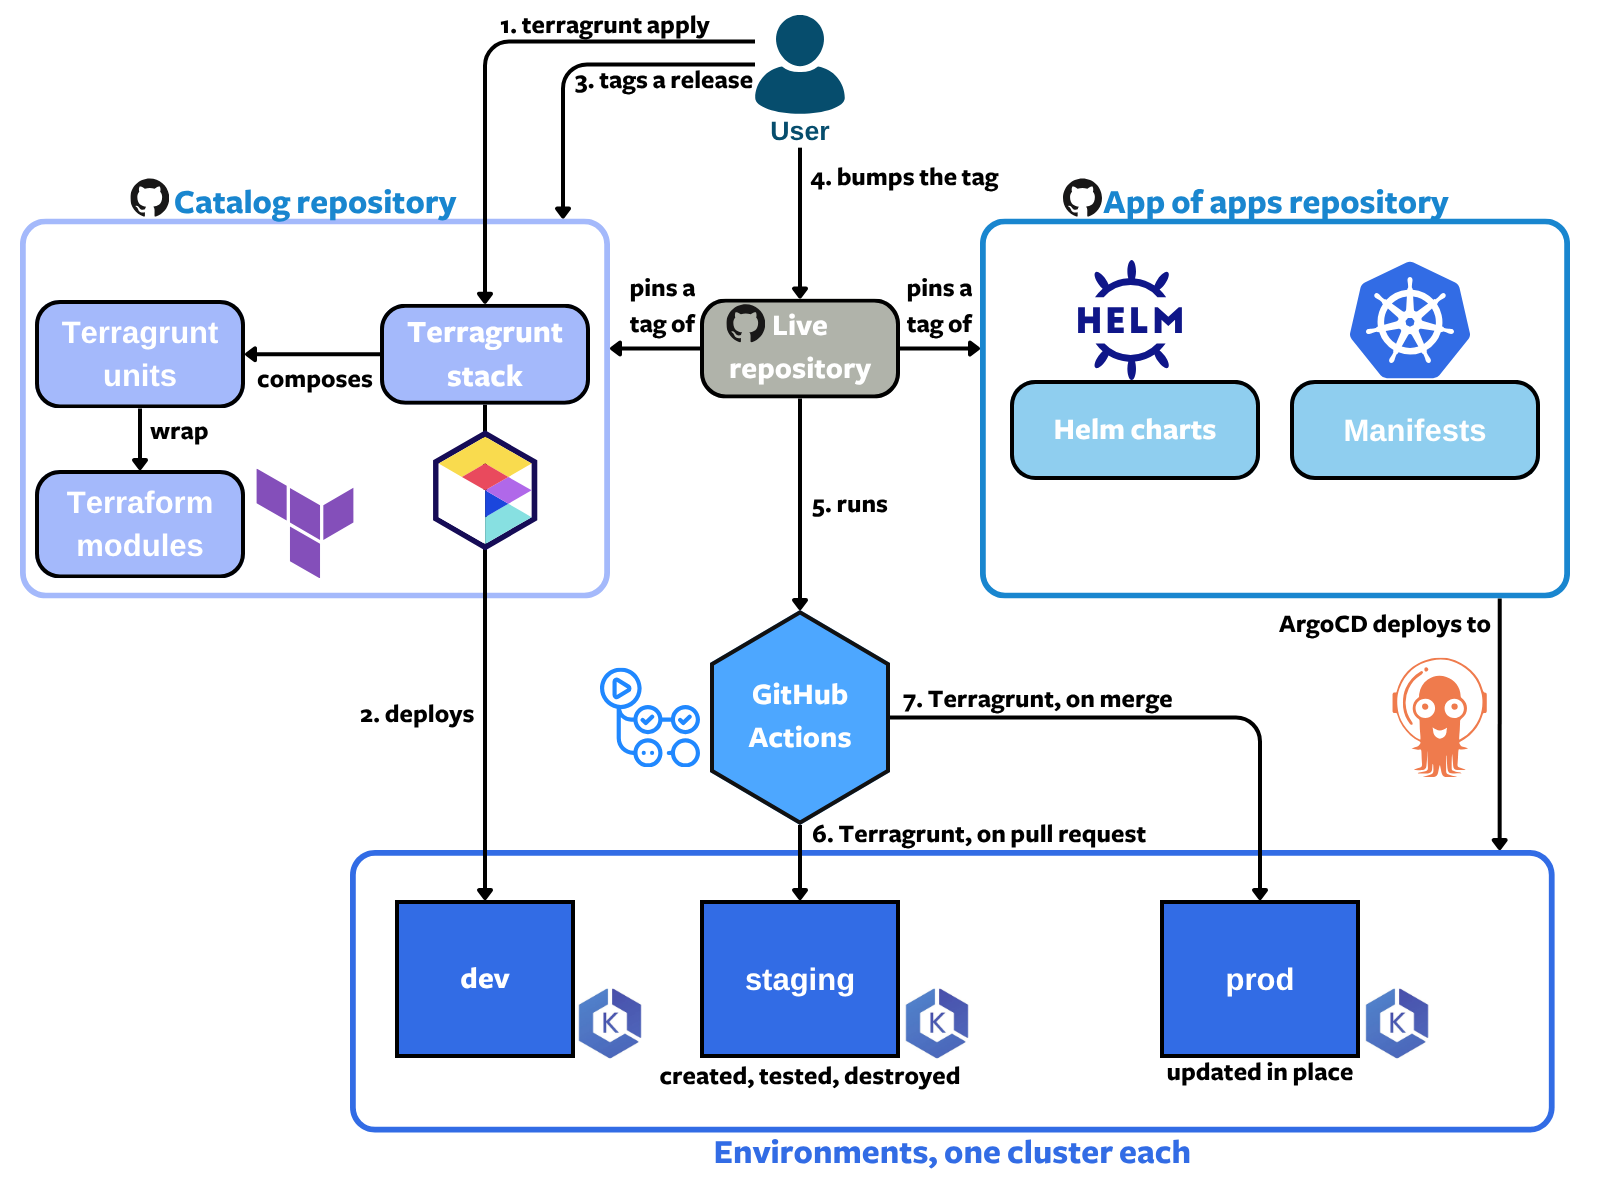
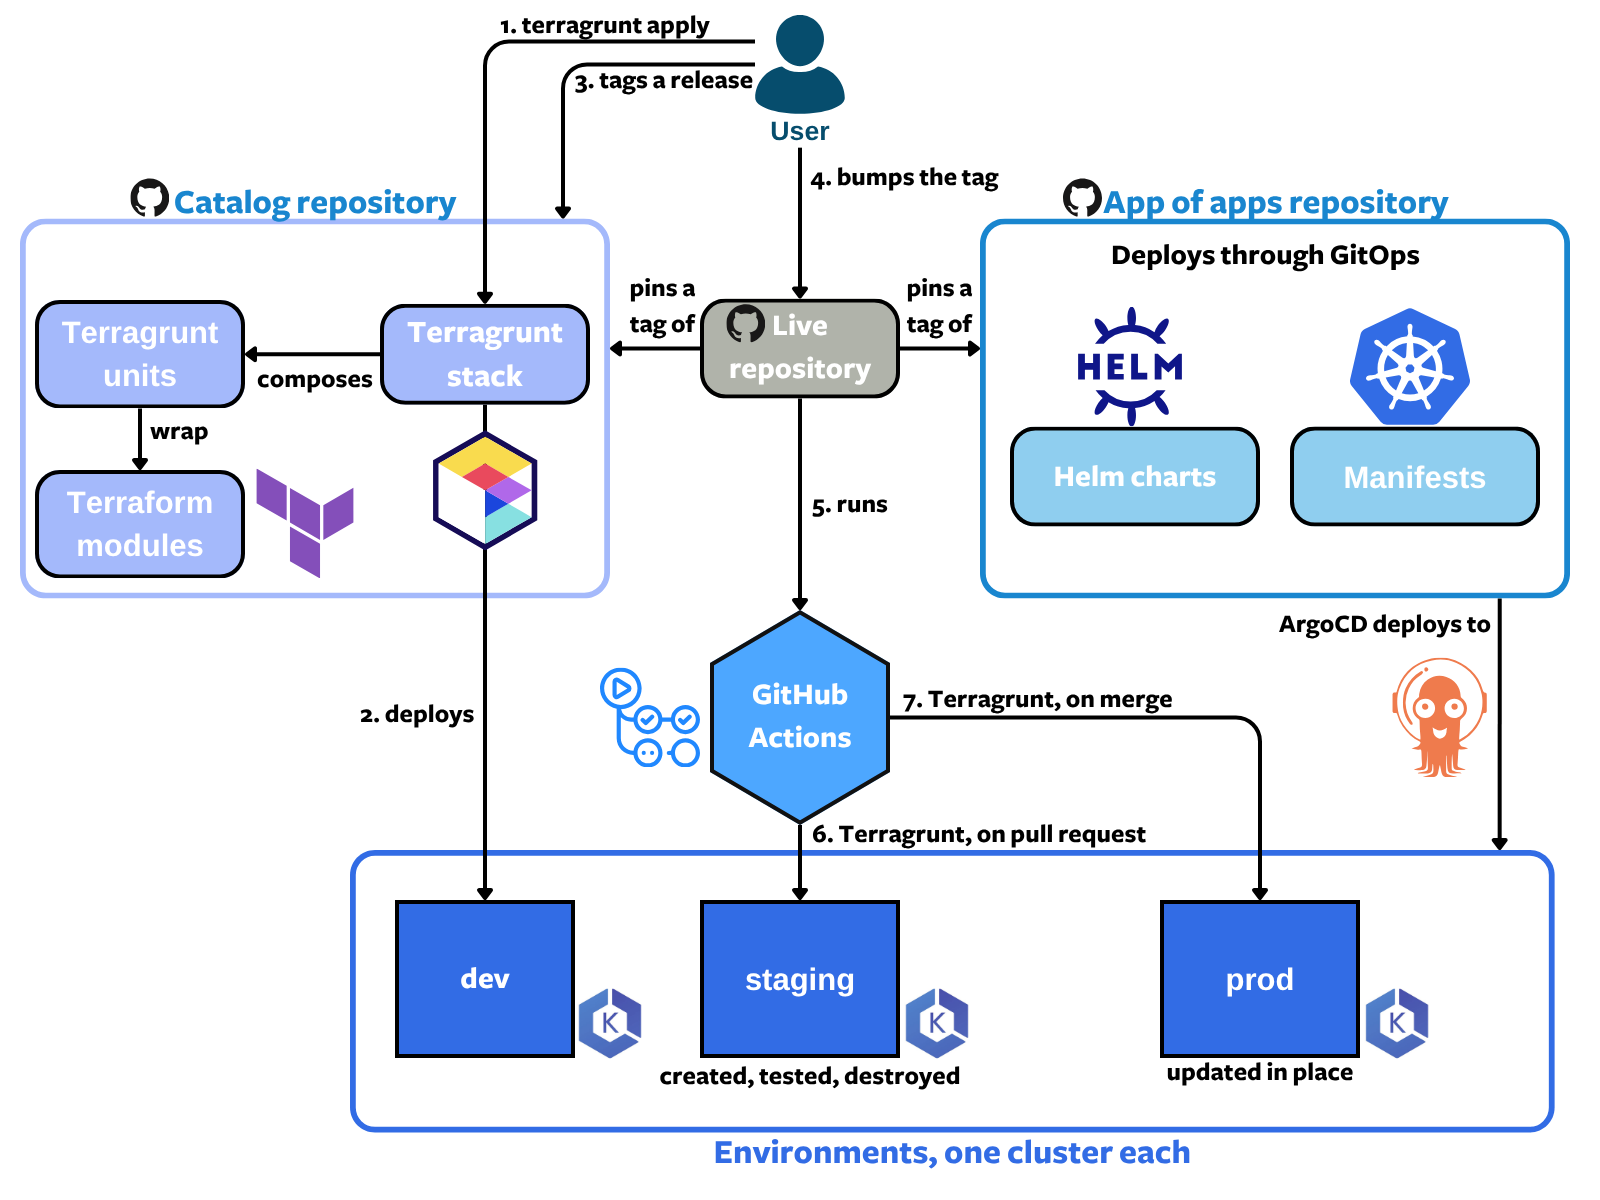
docs: add gitops to the platform architecture diagram

Changed region(s): [[0.625, 0.185, 0.9688, 0.4625]]

diff --git a/site/docs/architecture/index.md b/site/docs/architecture/index.md
@@ -11,7 +11,7 @@ EKS Forge has two sides: the platform, with the repositories and pipelines that 
 
 ## Platform Architecture
 
-![EKS Forge platform architecture: the catalog, live, and app of apps repositories, GitHub Actions, and the dev, staging, and prod environments](/img/platform-architecture.png)
+![EKS Forge platform architecture: the catalog, live, and app of apps repositories, GitHub Actions, ArgoCD deploying through GitOps, and the dev, staging, and prod environments](/img/platform-architecture.png)
 
 Each part of the diagram has a page of its own:
 - **Repositories**: the catalog provisions AWS, the app of apps repository holds what runs in the cluster, and the live repository pins both for `staging` and `prod` (see [Who Owns What](/docs/applications/how-the-app-of-apps-works/#who-owns-what)).

diff --git a/README.md b/README.md
@@ -47,7 +47,7 @@ Four tutorials walk you through the platform, in order:
 
 Three repositories deploy the same stack to `dev`, `staging`, and `prod`:
 
-![EKS Forge platform architecture: the catalog, live, and app of apps repositories, GitHub Actions, and the dev, staging, and prod environments](site/static/img/platform-architecture.png)
+![EKS Forge platform architecture: the catalog, live, and app of apps repositories, GitHub Actions, ArgoCD deploying through GitOps, and the dev, staging, and prod environments](site/static/img/platform-architecture.png)
 
 For how the repositories and pipelines fit together, see [Platform Architecture](https://eks-forge.readthedocs.io/latest/docs/architecture/#platform-architecture).
 
